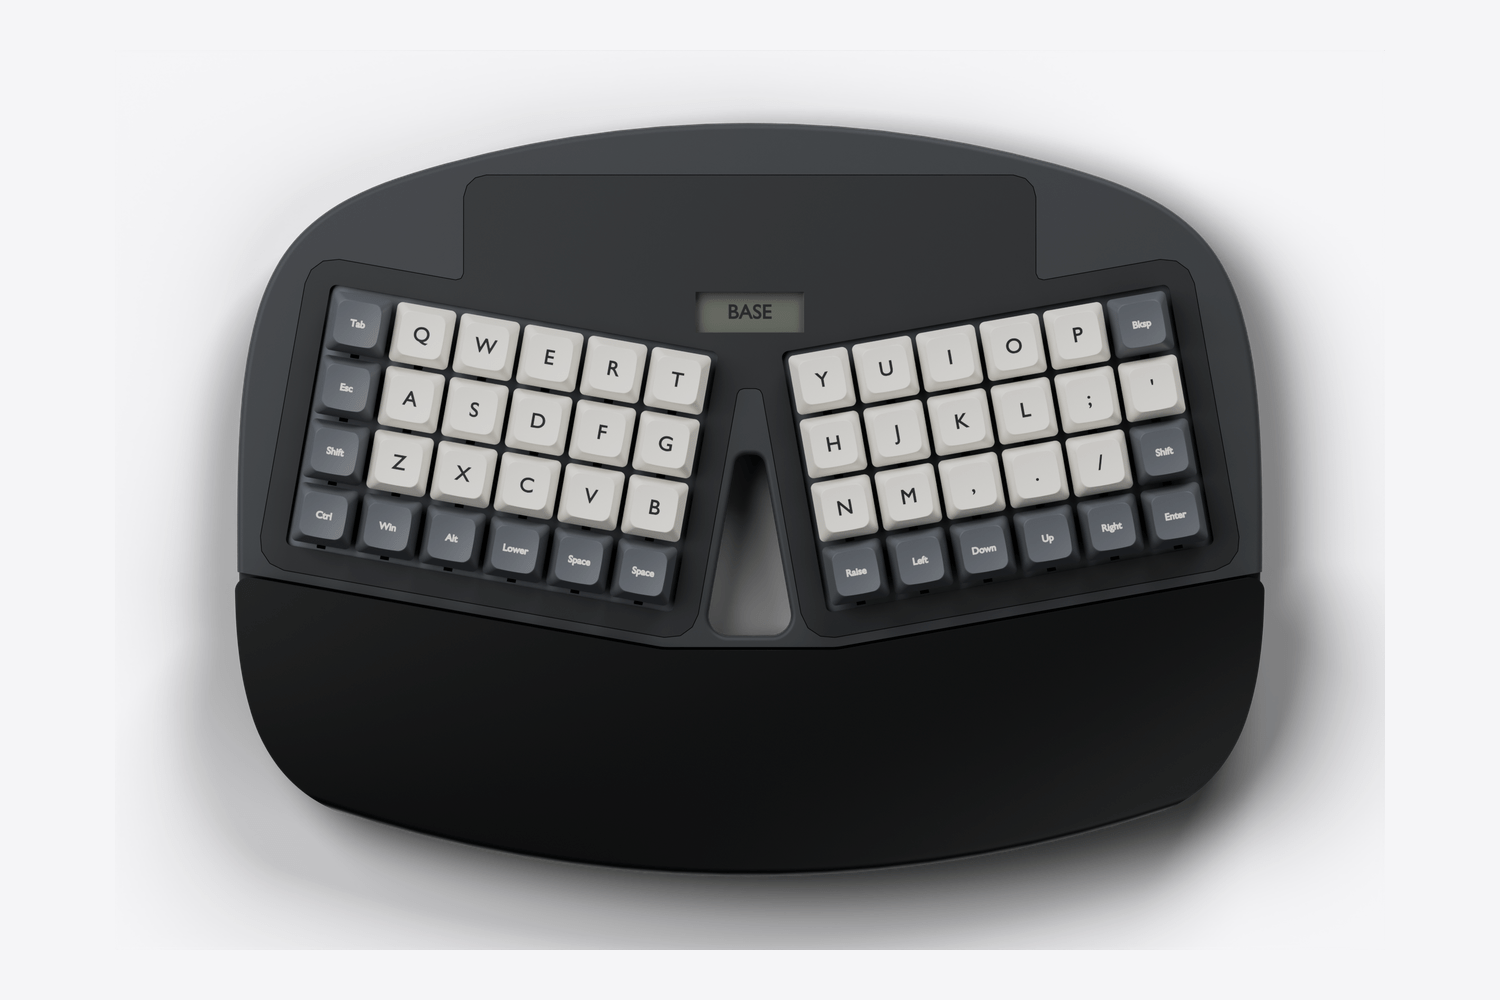
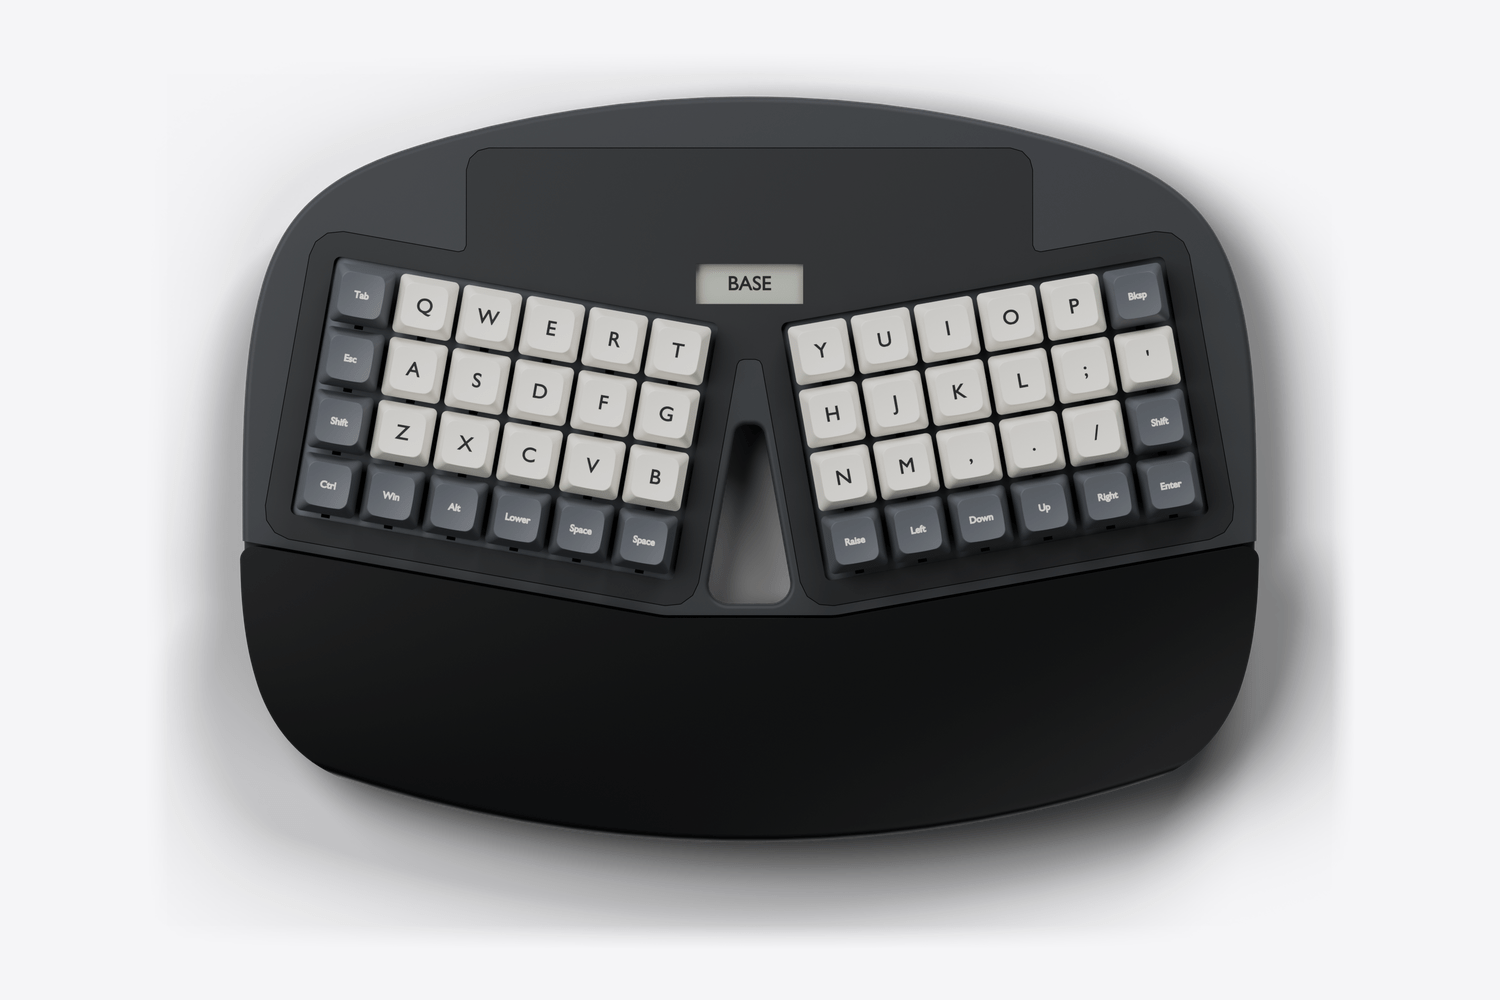
feat(site): show the full set of path-traced renders
Wire the finished renders into the product page: the Choc variant, an
exploded view with switches and PCB, the rear wall with its three
USB-C openings, the riser stance, and three close-ups. The page uses
the full-size WebP files; the PNGs stay for the README and link
previews.

The case parts in the renders come from the CAD model. Keycaps,
legends, switch housings, the plain PCB and the colours are drawn for
the picture only; docs/verification.md says so.

Changed region(s): [[0.1533, 0.093, 0.92, 0.961]]

diff --git a/site/index.html b/site/index.html
@@ -38,8 +38,8 @@
         <a class="pill pill-fill" href="#print">Print the case</a>
         <a class="text-link" href="#status">What works today</a>
       </p>
-      <img class="hero-shot" src="img/top.png" width="1102" height="801" alt="Top view of the keyboard. Two blocks of twenty-four keys splay apart around an open slot. A small display sits above the slot and a deep palm rest crosses the front.">
-      <p class="fine">Render of the CAD model. Keycaps and the display are drawn as plain blocks. No keyboard has been built yet.</p>
+      <img class="hero-shot" src="img/top.webp" width="2400" height="1780" alt="The keyboard from straight above: two splayed blocks of twenty-four keys, a small display reading BASE, and a full-width palm rest.">
+      <p class="fine">Every picture on this page is a render of the design. No keyboard has been built yet.</p>
     </section>
 
     <section class="band dark" aria-label="Highlights">
@@ -47,7 +47,7 @@
         <h2>Forty-eight keys. Nothing to reach for.</h2>
         <div class="bento">
           <article class="tile tile-wide tile-shot">
-            <img src="img/hero.png" width="1602" height="768" loading="lazy" alt="The keyboard seen from the typist's left, low over the palm rest.">
+            <img src="img/hero.webp" width="2015" height="1022" loading="lazy" alt="The keyboard from the typist's left: a dark curved shell, light letter keys, and grey modifier keys.">
           </article>
           <article class="tile">
             <p class="figure">10°</p>
@@ -87,7 +87,7 @@
       <div class="wrap">
         <h2>Shaped like the boards your wrists remember.</h2>
         <p class="lead">The outline is drawn from tangent arcs, with no straight edge anywhere. The form follows the ergonomic boards of the 2010s. The layout stays a Planck.</p>
-        <img class="wide-shot" src="img/side.png" width="809" height="154" loading="lazy" alt="Side profile. The palm rest stands a little below the keycap tops and the case body is thin.">
+        <img class="wide-shot" src="img/side.webp" width="2225" height="396" loading="lazy" alt="Low side profile: the palm rest rises to just under the keycap tops.">
         <div class="columns">
           <article>
             <h3>One shell</h3>
@@ -101,6 +101,28 @@
             <h3>Flat, on purpose</h3>
             <p>Both wells sit on one rigid board, so the keys do not tent. Tenting needs two boards. This revision does not have them.</p>
           </article>
+        </div>
+        <div class="gallery">
+          <figure class="shot shot-wide">
+            <img src="img/rear.webp" width="2083" height="635" loading="lazy" alt="The keyboard from behind, showing three USB-C openings in the rear wall.">
+            <figcaption>Three USB-C openings in the rear wall. Plug the cable into whichever suits the desk.</figcaption>
+          </figure>
+          <figure class="shot">
+            <img src="img/detail-display.webp" width="2400" height="1112" loading="lazy" alt="Close-up of the display window reading BASE, above the slot between the key blocks.">
+            <figcaption>The display names the active layer.</figcaption>
+          </figure>
+          <figure class="shot">
+            <img src="img/detail-legends.webp" width="2400" height="1350" loading="lazy" alt="Close-up of the left key block with dished keycaps and their legends.">
+            <figcaption>Uniform 1u keycaps, so any key fits any position.</figcaption>
+          </figure>
+          <figure class="shot">
+            <img src="img/detail-palm.webp" width="2269" height="678" loading="lazy" alt="Close-up of the rolled front lip of the palm rest.">
+            <figcaption>The palm rest ends in a rolled lip.</figcaption>
+          </figure>
+          <figure class="shot">
+            <img src="img/riser.webp" width="2277" height="555" loading="lazy" alt="Side view of the keyboard on its riser, with the front edge lifted.">
+            <figcaption>On the riser, the front lifts for 6.7° of negative tilt.</figcaption>
+          </figure>
         </div>
       </div>
     </section>
@@ -128,7 +150,7 @@
         <p class="lead">Both use the same key map and the same firmware. They do not share a plate or a PCB, so choose one before you print.</p>
         <div class="pair">
           <article class="choice">
-            <img src="img/hero.png" width="1602" height="768" loading="lazy" alt="The MX variant with tall keycap blocks.">
+            <img src="img/hero.webp" width="2015" height="1022" loading="lazy" alt="The MX variant with full-height keycaps.">
             <h3>Cherry MX</h3>
             <dl>
               <div><dt>Sockets</dt><dd>Kailh MX hot-swap</dd></div>
@@ -138,7 +160,7 @@
             <a class="text-link" href="https://github.com/w0rxbend/worxboard-ergo/tree/main/cad/exports/mx">MX part files</a>
           </article>
           <article class="choice">
-            <img src="img/choc.png" width="1594" height="747" loading="lazy" alt="The Choc variant with a lower case and shorter keycap blocks.">
+            <img src="img/choc.webp" width="1914" height="938" loading="lazy" alt="The Choc v1 variant with a lower case and low-profile keycaps.">
             <h3>Kailh Choc v1</h3>
             <dl>
               <div><dt>Sockets</dt><dd>Kailh Choc v1 hot-swap</dd></div>
@@ -156,7 +178,7 @@
         <h2>Print it yourself.</h2>
         <p class="lead">Every case part ships as STL, 3MF, and STEP, whole or split in two. The meshes are watertight. No slicer profile has been proven, so start with the small test pieces.</p>
         <div class="split">
-          <img src="img/parts.png" width="1028" height="945" loading="lazy" alt="Exploded view. From the top: keycaps, top cover, switch plate, palm rest, chassis, and the riser underneath.">
+          <img src="img/parts.webp" width="1674" height="1903" loading="lazy" alt="Exploded view: keycaps, switches, top cover, plate, PCB, chassis, palm rest, and riser.">
           <ol class="steps">
             <li><h3>Choose a switch family</h3><p>MX and Choc v1 parts do not mix.</p></li>
             <li><h3>Check your bed</h3><p>The one-piece chassis needs a 350 mm class bed. The split halves fit about 235 mm.</p></li>

diff --git a/site/site.css b/site/site.css
@@ -111,7 +111,7 @@ h1 {
 }
 .tagline { margin-top: 1rem; font-size: clamp(1.3rem, 3.2vw, 2rem); color: var(--muted); letter-spacing: -0.015em; }
 .hero-links { display: flex; flex-wrap: wrap; align-items: center; justify-content: center; gap: 1rem 1.75rem; margin-top: 1.75rem; }
-.hero-shot { width: min(100%, 58rem); margin: clamp(2rem, 6vw, 4rem) auto 0; filter: drop-shadow(0 2.5rem 2.5rem rgba(0, 0, 0, 0.22)); }
+.hero-shot { width: min(100%, 60rem); margin: clamp(2rem, 6vw, 4rem) auto 0; }
 .fine { margin-top: 1.75rem; color: var(--muted); font-size: 0.85rem; }
 
 /* Bands */
@@ -136,7 +136,7 @@ h3 { font-size: 1.25rem; font-weight: 600; letter-spacing: -0.01em; }
 .tile p:last-child { margin-top: 0.4rem; color: var(--night-muted); }
 .tile-wide { grid-column: 1 / -1; }
 .tile-shot { padding: clamp(1.5rem, 5vw, 3.5rem); background: radial-gradient(ellipse at 50% 30%, #f5f5f7 0%, #c9cace 70%); }
-.tile-shot img { width: min(100%, 52rem); margin: 0 auto; filter: drop-shadow(0 1.5rem 1.5rem rgba(0, 0, 0, 0.3)); }
+.tile-shot img { width: min(100%, 52rem); margin: 0 auto; }
 .figure { font-size: clamp(2.2rem, 4.5vw, 3.25rem); font-weight: 620; letter-spacing: -0.035em; line-height: 1.1; color: var(--mint); }
 .tile h3 { margin-top: 0.75rem; }
 
@@ -144,6 +144,11 @@ h3 { font-size: 1.25rem; font-weight: 600; letter-spacing: -0.01em; }
 .wide-shot { width: 100%; margin-top: 3.5rem; }
 .columns { display: grid; grid-template-columns: repeat(3, 1fr); gap: 2.5rem; margin-top: 3.5rem; }
 .columns p { margin-top: 0.5rem; color: var(--muted); }
+
+.gallery { display: grid; grid-template-columns: repeat(2, 1fr); gap: 1rem; margin-top: 4rem; }
+.shot { margin: 0; padding: clamp(1.25rem, 3vw, 2rem); border-radius: var(--radius); background: var(--paper); display: grid; align-content: space-between; gap: 1.5rem; }
+.shot-wide { grid-column: 1 / -1; }
+.shot figcaption { color: var(--muted); }
 
 /* Layout */
 .switcher { display: inline-flex; gap: 0.25rem; margin-top: 2.5rem; padding: 0.25rem; border-radius: 999px; background: var(--night-tile); }
@@ -177,7 +182,6 @@ h3 { font-size: 1.25rem; font-weight: 600; letter-spacing: -0.01em; }
 /* Switch families */
 .pair { display: grid; grid-template-columns: repeat(2, 1fr); gap: 1rem; margin-top: 3rem; }
 .choice { padding: clamp(1.5rem, 3vw, 2.5rem); border-radius: var(--radius); background: var(--paper); }
-.choice img { filter: drop-shadow(0 1rem 1rem rgba(0, 0, 0, 0.2)); }
 .choice h3 { margin-top: 2rem; font-size: 1.6rem; }
 .choice dl { margin: 1rem 0 1.5rem; }
 .choice dl div { display: flex; justify-content: space-between; gap: 1rem; padding: 0.6rem 0; border-top: 1px solid var(--line); }
@@ -223,7 +227,7 @@ h3 { font-size: 1.25rem; font-weight: 600; letter-spacing: -0.01em; }
 @media (max-width: 52rem) {
   .nav-links { display: none; }
   .nav-inner .pill { margin-left: auto; }
-  .bento, .columns, .pair, .split, .ledger { grid-template-columns: 1fr; }
+  .bento, .columns, .pair, .split, .ledger, .gallery { grid-template-columns: 1fr; }
   .specs div { grid-template-columns: 1fr; gap: 0.2rem; }
   h2 { max-width: none; }
 }

diff --git a/tools/render.py b/tools/render.py
@@ -22,8 +22,9 @@ from pathlib import Path
 import bpy
 import bmesh   # importable only after bpy
 import imagequant
+import numpy
 from mathutils import Matrix, Vector
-from PIL import Image
+from PIL import Image, ImageFilter
 
 from cad.model import CAP_LIFT, LCD_SINK, LCD_T, PAD_PROUD, PCB_TOP, REAR_PAD_Y, RISER_TILT, cad_xy, make
 from layout import DISPLAY, keys, variants
@@ -41,7 +42,11 @@ SENSOR_MM = 36.0
 FRAME_FILL = 0.84             # share of the frame the subject may span; the rest is room for its shadow
 ALPHA_FLOOR = 6               # shadow fainter than this does not count when cropping
 ALPHA_SOLID = 250             # at or above this a pixel is the product, not its shadow
-PNG_COLOURS, PNG_MAX_WIDTH, WEBP_QUALITY = 256, 2400, 88
+SPECK_PX = 5                  # a stray denoiser pixel smaller than this does not count either
+FEATHER_PX = 48               # a shadow the frame cut fades out over this margin
+PNG_COLOURS, WEBP_QUALITY = 256, 88
+PNG_BUDGET_BYTES = 600_000
+PNG_WIDTHS = (2400, 2000, 1600, 1200)   # tried in turn until the PNG fits the budget; the WebP keeps full size
 SURFACE_GAP_MM = 0.01         # how far a legend sits off the surface under it
 
 
@@ -66,7 +71,7 @@ FINISHES = {
     'hole': Finish('#020202', 0.9),
     'steel': Finish('#c9cbce', 0.28, metallic=1.0),
     'rubber': Finish('#1a1a1b', 0.85),
-    'lcd': Finish('#aeb5aa', 0.16, metallic=0.75, coat=1.0),
+    'lcd': Finish('#b9c0b4', 0.3, metallic=0.25, coat=1.0),
     'ink': Finish('#101112', 0.5),
     'cap_light': Finish('#e7e4dc', 0.5, grain=0.3, grain_mm=0.18),
     'cap_dark': Finish('#55585e', 0.5, grain=0.3, grain_mm=0.18),
@@ -83,8 +88,8 @@ ASSEMBLY = {
     'pcb_envelope': ('pcb', 'pcb'), 'lcd_envelope': ('lcd', 'lcd'),
 }
 # Exploded view: how far each layer moves from its seat, CAD frame. The palm rest slides toward the typist.
-EXPLODE_MM = {'riser': (0, 0, -45), 'palm': (0, -70, 12), 'pcb': (0, 0, 40), 'plate': (0, 0, 85), 'lcd': (0, 0, 105),
-              'cover': (0, 0, 130), 'switches': (0, 0, 170), 'caps': (0, 0, 215)}
+EXPLODE_MM = {'riser': (0, 0, -45), 'palm': (0, -60, 0), 'pcb': (0, 0, 55), 'plate': (0, 0, 100), 'lcd': (0, 0, 120),
+              'cover': (0, 0, 145), 'switches': (0, 0, 185), 'caps': (0, 0, 230)}
 SEATED = (0, 0, 0)
 LEGEND_MM = {'glyph': 6.0, 'word': 2.8}   # font size for a one-character legend and for a word
 LEGEND_BOLD_MM = 0.1                      # the built-in font is light; fatten every outline by this much
@@ -121,7 +126,7 @@ class Shot:
 
 
 SHOTS = {
-    'top': Shot('mx', 0, 90, size=(2400, 1700), lens=200),
+    'top': Shot('mx', 0, 90, size=(2400, 1900), lens=200),
     'hero': Shot('mx', 24, 34),
     'side': Shot('mx', -90, 3, size=(2400, 800)),
     'rear': Shot('mx', 156, 17),
@@ -364,8 +369,19 @@ def trace(shot, target):
 
 
 def extent(picture, alpha_floor):
-    """Bounding box of the pixels more opaque than the floor."""
-    return picture.getchannel('A').point(lambda alpha: 255 if alpha > alpha_floor else 0).getbbox()
+    """Bounding box of the pixels more opaque than the floor, specks aside."""
+    opaque = picture.getchannel('A').point(lambda alpha: 255 if alpha > alpha_floor else 0)
+    return opaque.filter(ImageFilter.MinFilter(SPECK_PX)).getbbox()
+
+
+def feathered(picture):
+    """Fade the shadow out toward the border, so a shadow the frame cut leaves no seam. The product stays."""
+    pixels = numpy.array(picture)
+    alpha = pixels[..., 3]
+    to_edge = [numpy.minimum(numpy.arange(side), numpy.arange(side)[::-1]) for side in alpha.shape]
+    fade = numpy.clip(numpy.minimum.outer(*to_edge) / FEATHER_PX, 0, 1)
+    pixels[..., 3] = numpy.where(alpha < ALPHA_SOLID, alpha * fade, alpha)
+    return Image.fromarray(pixels)
 
 
 def cropped(path, whole_subject):
@@ -374,15 +390,19 @@ def cropped(path, whole_subject):
     left, top, right, bottom = extent(picture, ALPHA_SOLID)
     if whole_subject and (left == 0 or top == 0 or right == picture.width or bottom == picture.height):
         raise RuntimeError(f'{path.stem} is clipped by the frame')
-    return picture.crop(extent(picture, ALPHA_FLOOR))
+    return feathered(picture.crop(extent(picture, ALPHA_FLOOR)))
 
 
 def save_web(picture, target):
-    """A palette PNG, small enough for the page, and a WebP beside it."""
-    if picture.width > PNG_MAX_WIDTH:
-        picture = picture.resize((PNG_MAX_WIDTH, round(picture.height * PNG_MAX_WIDTH / picture.width)), Image.LANCZOS)
-    imagequant.quantize_pil_image(picture, max_colors=PNG_COLOURS).save(target, optimize=True)
+    """A full-size WebP, and beside it a palette PNG scaled down until it fits the byte budget."""
     picture.save(target.with_suffix('.webp'), quality=WEBP_QUALITY, method=6)
+    for width in PNG_WIDTHS:
+        scale = min(1.0, width / picture.width)
+        fitted = picture.resize((round(picture.width * scale), round(picture.height * scale)), Image.LANCZOS)
+        imagequant.quantize_pil_image(fitted, max_colors=PNG_COLOURS).save(target, optimize=True)
+        if target.stat().st_size <= PNG_BUDGET_BYTES:
+            return
+    raise RuntimeError(f'{target.name} is over {PNG_BUDGET_BYTES} bytes at every width in PNG_WIDTHS')
 
 
 def save_product(top):

diff --git a/README.md b/README.md
@@ -11,7 +11,7 @@ A split Planck in one curved shell. Forty-eight 1u keys in two wells, opened ten
 **[Product page](https://w0rxbend.github.io/worxboard-ergo/)** · **[3D print guide](docs/printing.md)** · **[Releases](https://github.com/w0rxbend/worxboard-ergo/releases)**
 
 > [!WARNING]
-> **Revision A0 is an engineering preview.** You can print the case. You cannot order the PCB: it has no copper tracks. No keyboard has been built, and the firmware has never run on a board. The picture is a render of the CAD model.
+> **Revision A0 is an engineering preview.** You can print the case. You cannot order the PCB: it has no copper tracks. No keyboard has been built, and the firmware has never run on a board. The pictures are renders of the design.
 
 ## What you can do today
 
@@ -83,10 +83,12 @@ make check-fabrication   # fails on purpose at A0
 
 `make check-fabrication` stays red until both boards are routed, reviewed, and tested on hardware. Tool versions are pinned in [`toolchain.lock.json`](toolchain.lock.json) and `uv.lock`.
 
-To redraw the product renders:
+To redraw the product renders (Blender's path tracer as a Python module, about 30 minutes on 16 CPU threads) and the laser artwork for the signature:
 
 ```sh
-uv run --with pyvista==0.46.3 python -m tools.render
+uv run --no-project --python 3.13 --with bpy==5.3.0 --with build123d==0.13.0 \
+    --with shapely==2.2.0 --with pillow==13.0.0 --with imagequant==1.1.6 python -m tools.render
+make laser
 ```
 
 ## Status and next steps

diff --git a/docs/verification.md b/docs/verification.md
@@ -32,7 +32,7 @@ Case shell, not verified:
 - The interference check uses envelopes. Keycaps are boxes without stems or wobble. Switch housings use nominal sizes.
 - The outline is tangent arcs, not curvature-continuous. Curvature steps 7.9 times at the lip-to-corner joint.
 - The 4.5 mm sweep under the wall is a plain 45° chamfer, not a convex section.
-- `assets/layout.svg` and `assets/layout.png` still show the earlier short palm rest, not the shell. The product page and `assets/product.png` use renders from `tools/render.py`. Those renders show the CAD envelopes; they are not photographs and are not evidence of fit. The `palm` and `palm_screws` keys in `assets/layout.json` describe that earlier rest. See the authority exception in [design.md](design.md).
+- `assets/layout.svg` and `assets/layout.png` still show the earlier short palm rest, not the shell. The product page and `assets/product.png` use path-traced renders from `tools/render.py`. The case parts in them come from the CAD model. The keycaps, legends, switch housings, plain PCB, display content and colours are drawn for the picture in `tools/render_parts.py` and are not design data. The renders are not photographs and are not evidence of fit. The `palm` and `palm_screws` keys in `assets/layout.json` describe that earlier rest. See the authority exception in [design.md](design.md).
 
 Known blockers the case model does not resolve. They belong to the PCB and the layout, which this case revision did not change:
 
